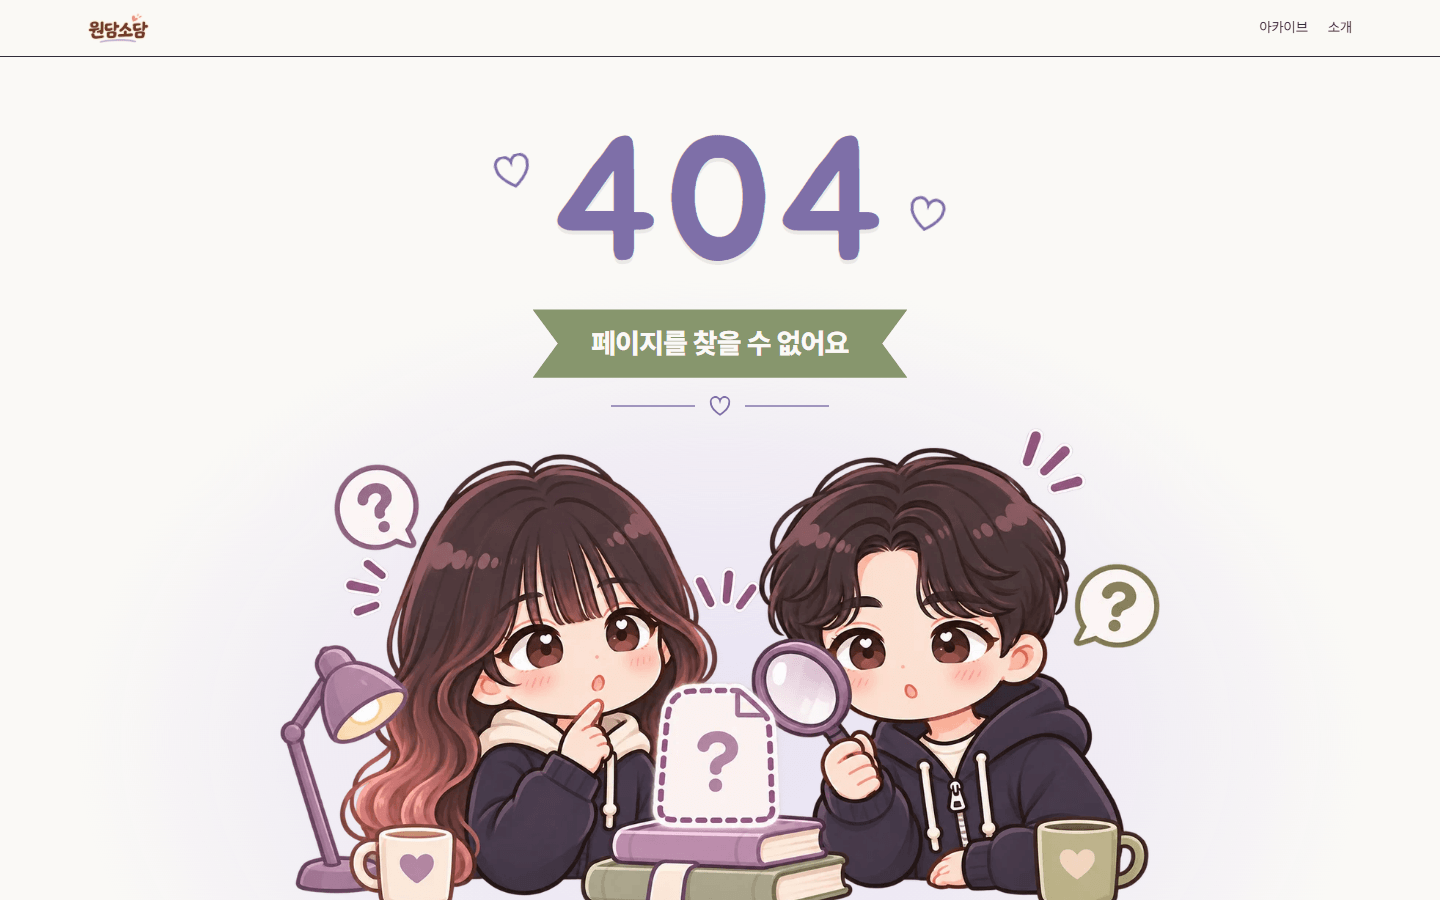
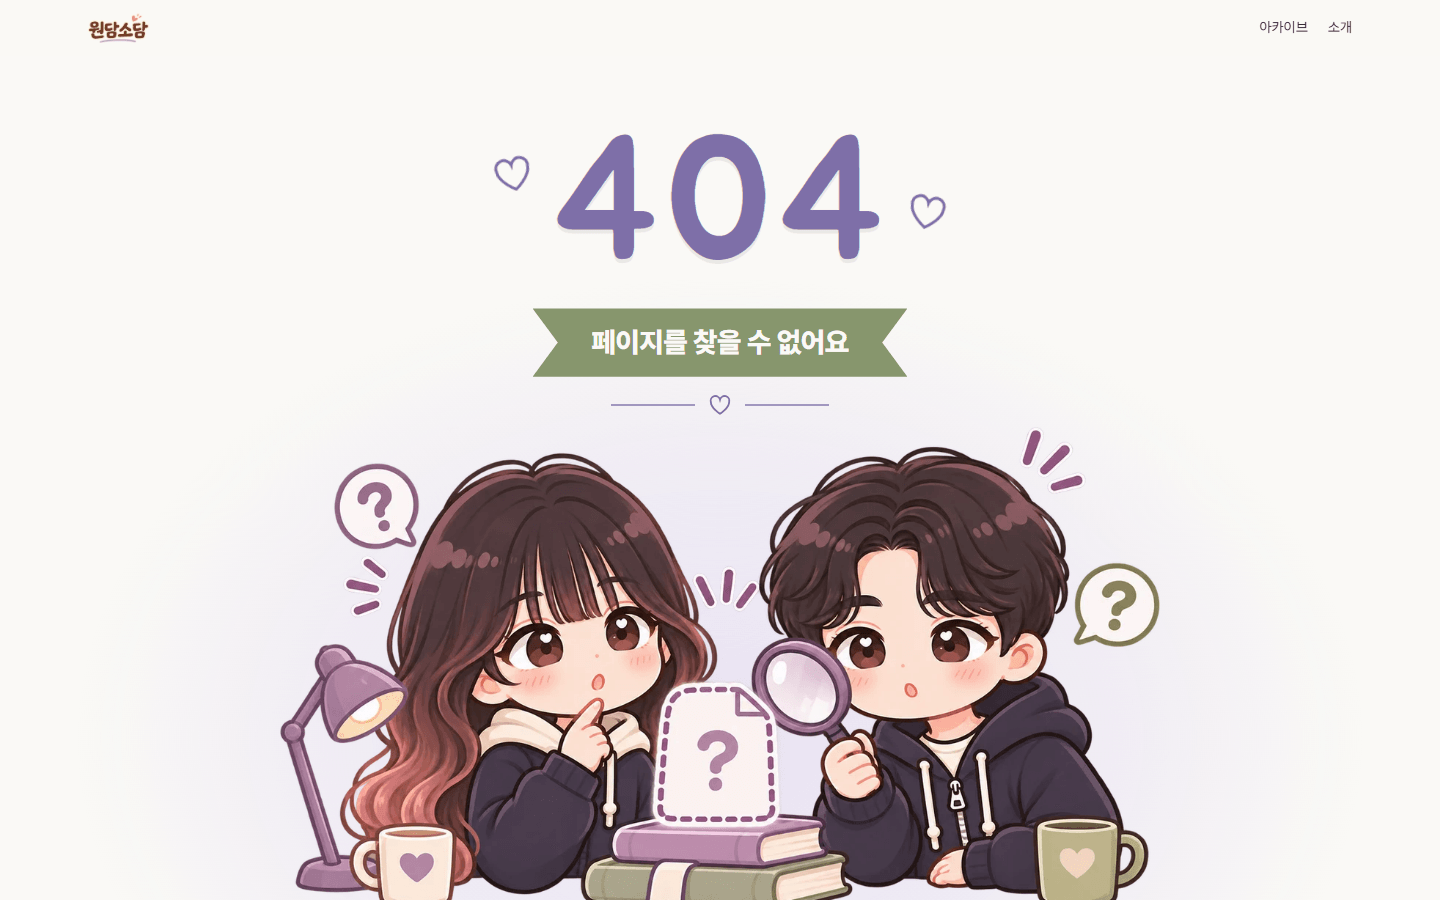
구분선·소개 사진 테두리 제거, 인스타그램 버튼 리디자인, 모바일 모니터 진입 강화와 검색 모드 화면 추가

diff --git a/workspaces/archive-site/src/components/intro/intro-controller.ts b/workspaces/archive-site/src/components/intro/intro-controller.ts
@@ -38,11 +38,13 @@ function setupZoom(root: HTMLElement) {
   const reveal = root.querySelector<HTMLElement>('[data-reveal]')!;
   const target = document.querySelector<HTMLElement>('.search-banner img');
   const sticky = viewport.parentElement!;
+  const caption = root.querySelector<HTMLElement>('.intro-caption');
   if (!zoomer || !screen || !whiteout || !reveal) throw new Error('intro markup missing');
 
   let C = { x: 0, y: 0 }; // 모니터 화면 중심 (뷰포트 좌표)
   let V = { x: 0, y: 0 }; // 뷰포트 중심
-  let S = 1; // 모니터 화면 폭이 뷰포트 폭을 넘어서는 배율 (남는 위아래는 흰색 전환이 덮는다)
+  let S = 1; // 모니터 화면이 뷰포트를 가로·세로 모두 덮는 배율 → 모니터 안으로 완전히 들어가는 느낌
+  const logo = screen.querySelector<HTMLElement>('.screen-logo');
   let ticking = false;
 
   function measure() {
@@ -53,9 +55,12 @@ function setupZoom(root: HTMLElement) {
     const sr = screen.getBoundingClientRect();
     if (!sr.width || !sr.height) return;
     C = { x: sr.left - vr.left + sr.width / 2, y: sr.top - vr.top + sr.height / 2 };
-    V = { x: vr.width / 2, y: vr.height / 2 };
-    // 세로 화면에서 높이까지 덮으려면 7배 이상 확대돼 로고가 뭉개지므로 폭 기준으로만 확대
-    S = (vr.width / sr.width) * 1.12;
+    // 확대 중에는 문구 줄 자리까지 장면이 덮으므로, 문구 줄을 포함한 전체 높이 기준으로 가운데·배율을 잡는다
+    const fullH = vr.height + (caption ? caption.offsetHeight : 0);
+    V = { x: vr.width / 2, y: fullH / 2 };
+    // 화면 전체를 모니터 화면이 덮을 때까지 확대 (세로 화면에서는 5배 이상).
+    // 로고가 너무 커지면 뭉개지므로 3배를 넘어서면서 로고를 서서히 지워 '로고를 통과해 들어가는' 느낌으로 처리
+    S = Math.max(vr.width / sr.width, fullH / sr.height) * 1.08;
     update();
   }
 
@@ -74,7 +79,7 @@ function setupZoom(root: HTMLElement) {
     // 지금 위치에서 남은 스크롤 거리만큼 빼면 된다 → 목표가 움직이지 않아 화면 가운데에서 곧장 줌아웃
     const st = sticky.getBoundingClientRect();
     const tr = target.getBoundingClientRect();
-    if (!tr.width || !tr.height) return;
+    if (!tr.width || !tr.height) { reveal.style.opacity = '0'; return; }
     const left = (1 - p) * (root.offsetHeight - sticky.offsetHeight);
     const R = { x: tr.left - st.left, y: tr.top - st.top - left, w: tr.width, h: tr.height };
     reveal.style.left = `${R.x}px`;
@@ -102,9 +107,16 @@ function setupZoom(root: HTMLElement) {
     const cx = C.x + (V.x - C.x) * e;
     const cy = C.y + (V.y - C.y) * e;
     zoomer.style.setProperty('--zoom', z.toFixed(4));
+    if (logo) logo.style.opacity = (1 - clamp01((z - 3) / 2)).toFixed(3);
     zoomer.style.setProperty('--tx', `${(cx - z * C.x).toFixed(2)}px`);
     zoomer.style.setProperty('--ty', `${(cy - z * C.y).toFixed(2)}px`);
-    whiteout.style.setProperty('--white', range(p, 0.3, 0.46).toFixed(3));
+    // 확대가 시작되면 아래 문구 줄을 걷어내 화면 전체가 모니터 안으로 들어가도록
+    if (caption) {
+      const k = range(p, 0.04, 0.2);
+      caption.style.opacity = (1 - k).toFixed(3);
+      viewport.style.setProperty('--cap-grow', `${(caption.offsetHeight * k).toFixed(1)}px`);
+    }
+    whiteout.style.setProperty('--white', range(p, 0.36, 0.46).toFixed(3));
     updateReveal(p);
     if (p >= 0.999) root.dataset.done = '';
     else delete root.dataset.done;

diff --git a/workspaces/archive-site/src/styles/global.css b/workspaces/archive-site/src/styles/global.css
@@ -65,7 +65,6 @@ h1, h2, h3, p { margin: 0; }
   position: sticky; top: 0; z-index: 30;
   background: color-mix(in srgb, var(--cream) 94%, transparent);
   backdrop-filter: blur(6px);
-  border-bottom: 1px solid var(--rule);
 }
 .site-header .wrap { display: flex; align-items: center; justify-content: space-between; height: var(--header-h); gap: 16px; }
 .brand { display: inline-flex; align-items: center; gap: 10px; text-decoration: none; }
@@ -147,7 +146,7 @@ dialog.launch::backdrop { background: rgb(48 45 57 / 0.55); }
 .launch-status { min-height: 1.4em; font-size: 14px; font-weight: 600; color: var(--khaki-ink); }
 
 /* ---------- footer ---------- */
-.site-footer { border-top: 1px solid var(--rule); padding: 28px 0 40px; font-size: 13px; color: var(--muted); }
+.site-footer { padding: 28px 0 40px; font-size: 13px; color: var(--muted); }
 .site-footer .wrap { display: flex; flex-wrap: wrap; justify-content: space-between; gap: 12px; }
 
 @media (prefers-reduced-motion: reduce) {
